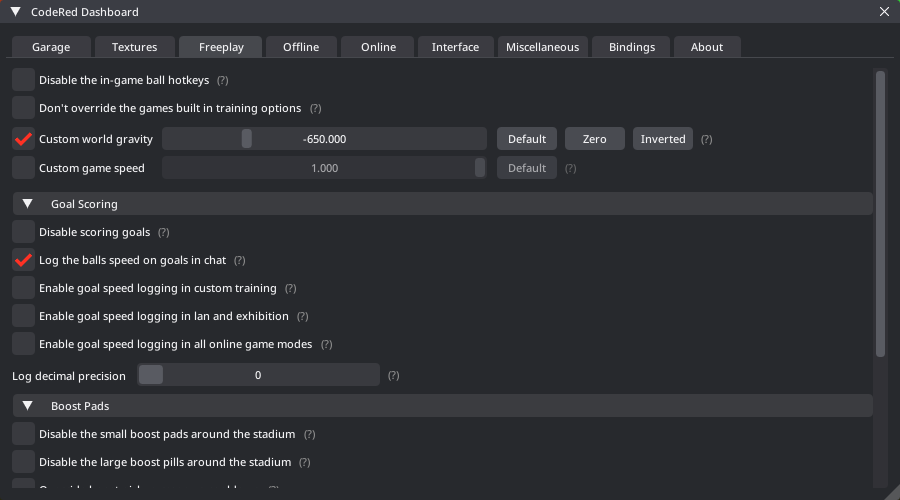
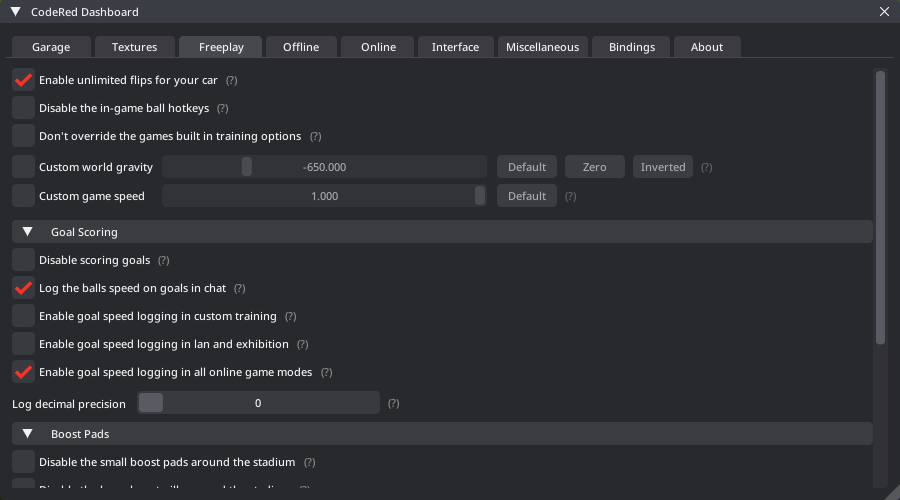
Initial Commit

diff --git a/changelog.html b/changelog.html
@@ -53,6 +53,7 @@
 		    <nav id="docs-nav" class="docs-nav navbar">
 			    <ul class="section-items list-unstyled nav flex-column pb-3">
                     <li class="nav-item section-title mt-3"><a class="nav-link scrollto" href="#section-3"><span class="theme-icon-holder me-2"><i class="fas fa-book"></i></span>Module Changelog</a></li>
+                    <li class="nav-item"><a class="nav-link scrollto" href="#item-3-3-5">Version 2.3.5</a></li>
                     <li class="nav-item"><a class="nav-link scrollto" href="#item-3-3-4">Version 2.3.4</a></li>
                     <li class="nav-item"><a class="nav-link scrollto" href="#item-3-3-3">Version 2.3.3</a></li>
                     <li class="nav-item"><a class="nav-link scrollto" href="#item-3-3-2">Version 2.3.2</a></li>
@@ -242,6 +243,16 @@
 		    <div class="container">
                 <article class="docs-article" id="section-3">
                     <h1 class="docs-heading">Changelog</h1>
+
+                        <section class="docs-section" id="item-3-3-5">
+                            <h2 class="section-heading">Version 2.3.5 (October 18th 2024)</h2>
+                            <h5>- Added a new setting <code>freeplay_unlimited_flips</code> which is pretty self explanatory.</h5>
+                            <h5>- Added the new "McLaren Senna" car body to the anonymizer setting <code>garage_hide_loadouts</code>.</h5>
+                            <h5>- Added the new "Drift Woods (Night)" map to Discord rich presence integration and the main menu background changer.</h5>
+                            <h5>- Fixed your preview loadout when opening drops sometimes not showing what item you got after opening them.</h5>
+                            <h5>- Fixed the goal explosion camera when viewing blueprints in your inventory not working properly.</h5>
+                            <h5>- Fixed the <code>interface_april_icons</code> setting sometimes not applying at the end of games.</h5>
+                        </section>
 
                         <section class="docs-section" id="item-3-3-4">
                             <h2 class="section-heading">Version 2.3.4 (October 11th 2024)</h2>

diff --git a/documentation.html b/documentation.html
@@ -903,6 +903,10 @@
                                         <th class="theme-bg-light"><b>freeplay_goal_speed_online &lttrue-false&gt</b></th>
                                         <td>Enable the use of showing goal speed in all online game modes.</td>
                                     </tr>
+                                    <tr>
+                                        <th class="theme-bg-light"><b>freeplay_unlimited_flips &lttrue-false&gt</b></th>
+                                        <td>Allows your car to use unlimited flips without them expiring in freeplay.</td>
+                                    </tr>
                                 </tbody>
                             </table>
                         </div>
@@ -1178,7 +1182,7 @@
                                     </tr>
                                     <tr>
                                         <th class="theme-bg-light"><b>interface_auto_reset_buffer &lttrue-false&gt</b></th>
-                                        <td>Automatically reset the players input buffer when alt-tabbing, as well as after a goal is scored.</td>
+                                        <td>Automatically reset the player input buffer when alt-tabbing, as well as after a goal is scored.</td>
                                     </tr>
                                     <tr>
                                         <th class="theme-bg-light"><b>interface_autoname_replays &lttrue-false&gt</b></th>
